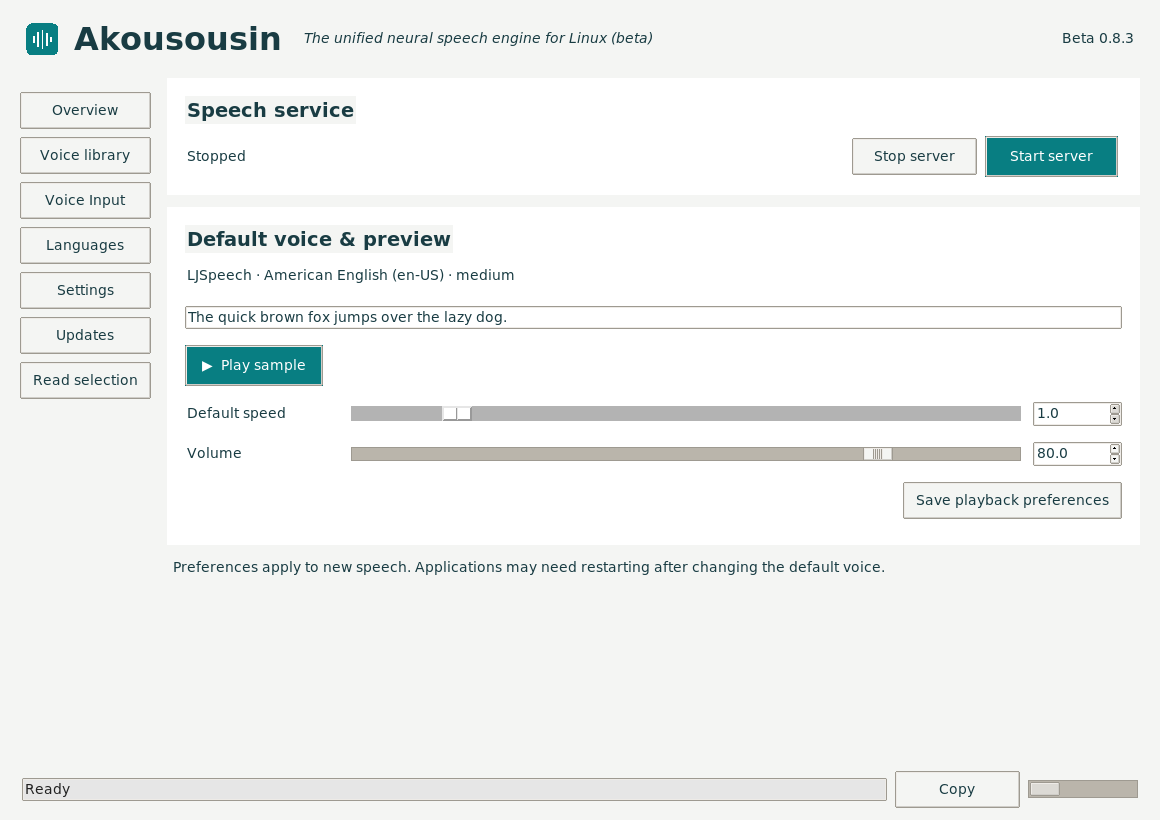
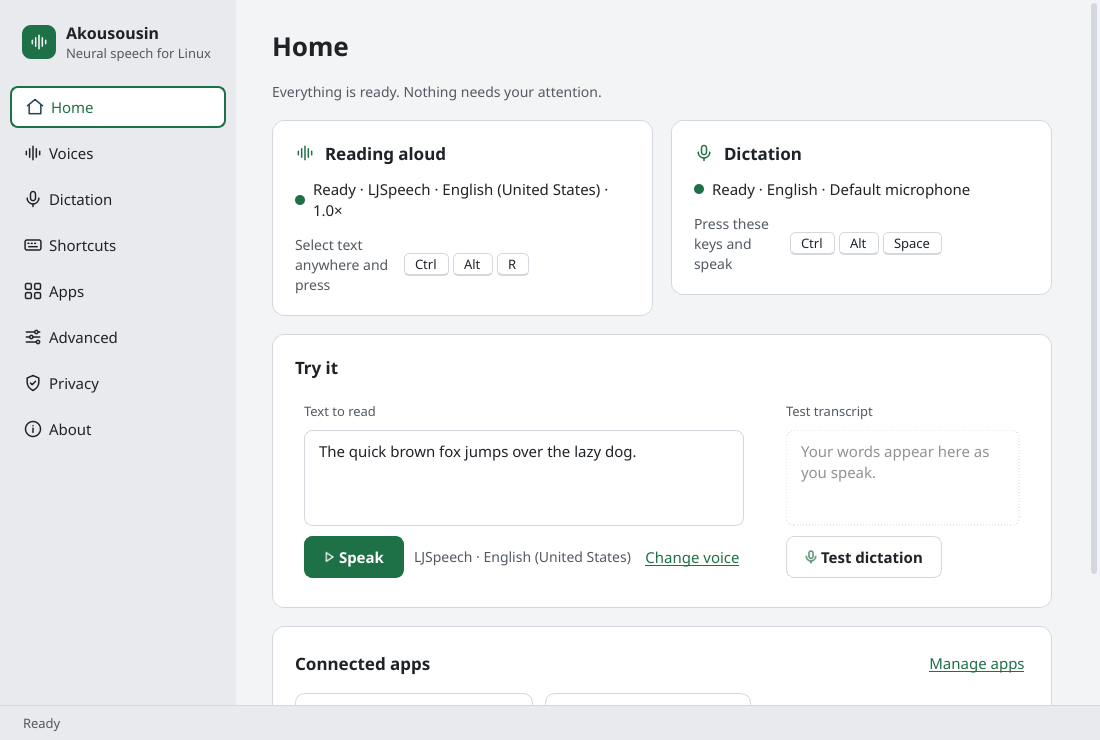
docs: new screenshots of every page
Fresh 0.9 screenshots of all eight control-panel pages in light colours, and
Home and Voices in dark, rendered with Noto Sans at Plasma's default size.
They show a realistic setup: the bundled starter voice, a downloaded
dictation model, shortcuts approved, a Logos prefix registered and Speech
Dispatcher on. Old 0.7-era Voice Input and Read selection images removed.

Claude-Session: https://claude.ai/code/session_01N5qqhA2CjPkM3LkXPBWXWE

diff --git a/docs/SCREENSHOTS.md b/docs/SCREENSHOTS.md
@@ -3,43 +3,51 @@ SPDX-License-Identifier: GPL-3.0-or-later
 SPDX-FileCopyrightText: 2026 John Goodman
 -->
 
-# Akousousin screenshots
+# Screenshots
 
-These images show the actual Linux control panel. The overview was captured
-during the latest release checks. The input and reading images show earlier
-0.7.0b1 setup screens, captured from source in an isolated profile on a virtual
-X display. Current releases use the actual AKS header icon and automatically
-prepare speech support when enabling reading shortcuts. The images show
-setup states, not completed desktop permission or microphone tests. The temporary
-model path in the input screenshots belongs to that isolated profile; the normal
-cache is `~/.local/share/Akousousin/models/whisper/`, respecting `XDG_DATA_HOME`.
+Akousousin 0.9 on a Plasma desktop. It follows your desktop's light or dark
+colours.
 
-## Overview
+**Home:** whether reading aloud and dictation are ready, your shortcuts, and a
+place to try both.
 
-Speech service controls, the selected voice, preview and playback preferences.
+![Home page: reading aloud and dictation ready, with their shortcuts](images/home.png)
 
-![Overview with voice preview and service controls](images/control-panel.png)
+**Voices:** the default voice, then every voice by language. Select one to hear
+it, use it, download it or remove it.
 
-## Voice Input
+![Voices page: default voice and the English voices](images/voices.png)
 
-Persistent model management, toggle/push-to-talk and KDE shortcut setup. The
-model is unloaded and shortcuts are disabled. This capture environment has no
-host microphone utilities; a desktop with `pulseaudio-utils` lists its inputs.
+**Dictation:** shortcut, hold-to-talk or press-to-start, language and
+microphone, with a live level meter.
 
-![Voice Input model and desktop shortcut controls](images/voice-input.png)
+![Dictation page: shortcut, mode, language and microphone](images/dictation.png)
 
-Scroll down for microphone and language selection, the ready-sound test, recording
-controls and transcripts.
+**Shortcuts:** reading and dictation keys that work in every app.
 
-![Voice Input recording and transcript controls](images/voice-input-recording.png)
+![Shortcuts page: read selected text, read copied text and dictate](images/shortcuts.png)
 
-## Read selection
+**Apps:** Windows apps in Wine, such as Logos, and Linux apps through Speech
+Dispatcher.
 
-Global reading shortcut setup, selected/copied text actions and stopping the
-reader. Enable the shortcuts and approve them in KDE before using them globally.
+![Apps page: a Wine prefix with voices registered, and Speech Dispatcher on](images/apps.png)
 
-![Read selection and global reading shortcut controls](images/read-selection.png)
+**Privacy:** what stays on your computer, and the few times Akousousin uses the
+internet.
 
-See the [installation guide](../standalone/README.md),
-[Voice Input guide](../recognition/PANEL-TESTING.md) and
-[beta testing checklist](../standalone/BETA-TESTING.md).
+![Privacy page](images/privacy.png)
+
+**Advanced:** start at login, memory, the speech service, updates and
+troubleshooting.
+
+![Advanced page: startup and memory settings](images/advanced.png)
+
+**About:** the name, the story and the credits.
+
+![About page](images/about.png)
+
+**Dark:**
+
+![Home page in dark colours](images/home-dark.png)
+
+![Voices page in dark colours](images/voices-dark.png)

diff --git a/recognition/PANEL-TESTING.md b/recognition/PANEL-TESTING.md
@@ -12,7 +12,7 @@ artifacts remain on the GitHub Actions run. Open
 **Voice Input**. This guide covers the 0.7.0b5 beta panel and Updates page.
 It retains the existing TTS features; Whisper recognition is still experimental.
 
-![Voice Input model and desktop dictation setup](../docs/images/voice-input.png)
+![Dictation page](../docs/images/dictation.png)
 
 The screenshot shows an unloaded model and disabled shortcuts in an isolated
 test profile. Microphone discovery requires the host audio utilities below.
